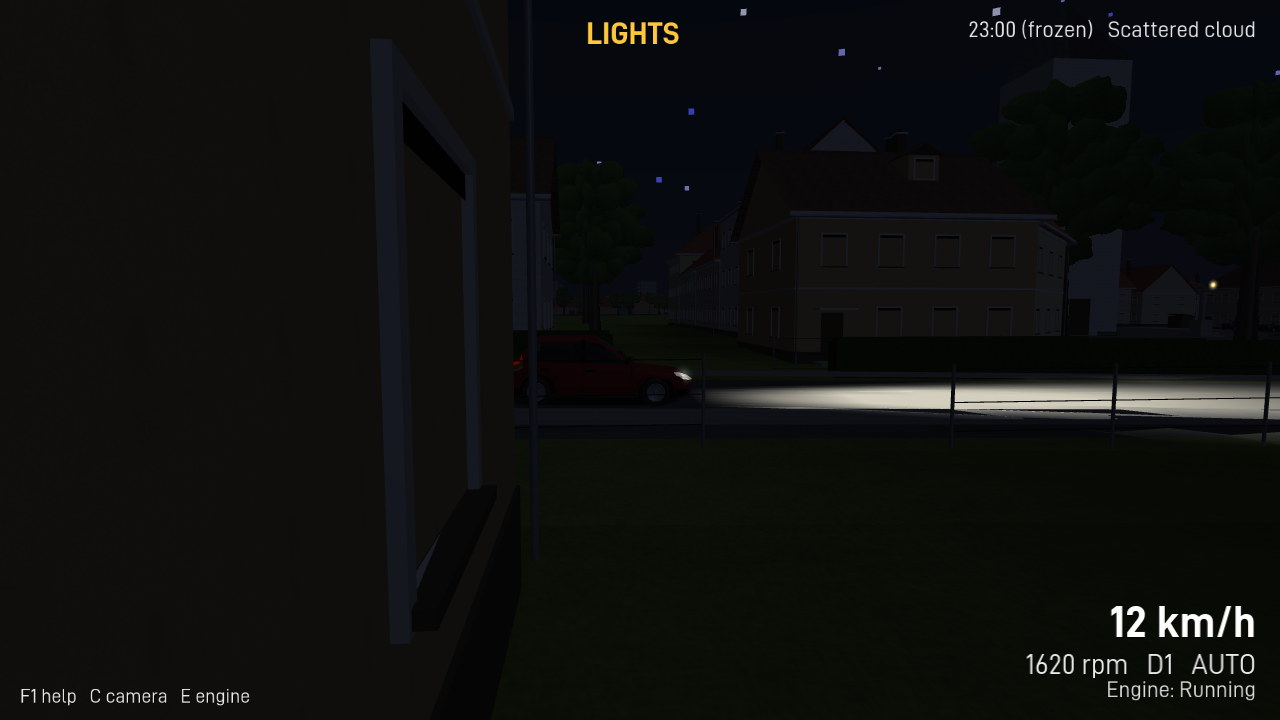
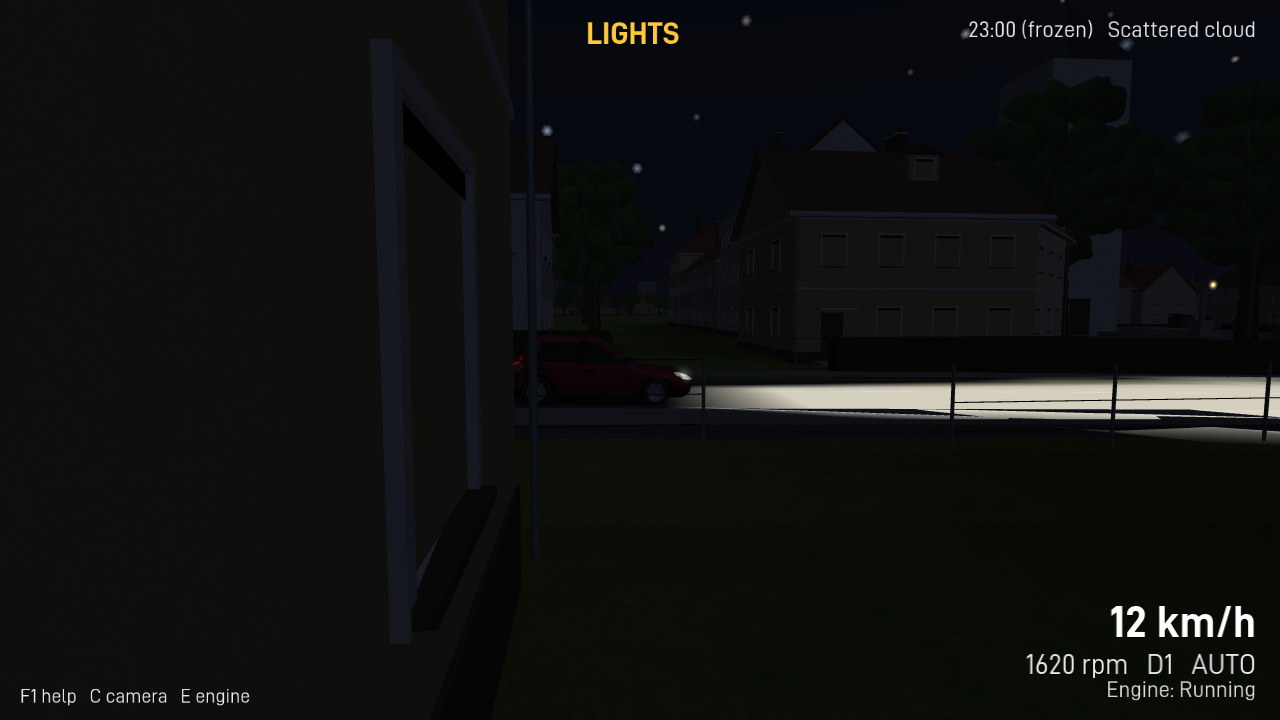
Re-shoot the curated screenshot set on the finished build
Nineteen frames, all of them captured after the visual work of this phase, so
the set is consistent with itself for the first time since the pass began: the
paint carries a highlight, the glass is tinted rather than grey, the wing
mirrors are convex, the A-pillar's saw-tooth join is gone, the headlamp beam
reaches down the road, the stars are points instead of blue squares and the
forest edges taper.

Two new scenes join it, because they are what two of this phase's changes are
judged on: wetroad (the sky reflected off wet asphalt, dark under the car and
bright towards the horizon) and rainynight (headlamps, rain and street lamps
together, the worst case for both).

capture_set.sh now converts the set to JPEG itself instead of printing a python
one-liner with a hand-maintained scene list for somebody to paste. That list had
already gone stale: a 1.2 MB hero.png was sitting in the repository next to
hero.jpg, referenced by nothing. It is removed.

plan.md gains the success-criteria table -- every point the brief asks for, what
was done about it, and how it is known -- and says plainly that the one
criterion this session could not meet is the one needing a real machine.

Changed region(s): [[0.5312, 0.5194, 1.0, 0.6111], [0.5625, 0.0, 0.5938, 0.0306]]

diff --git a/simulator/src/Traffic/RouteDriver.cpp b/simulator/src/Traffic/RouteDriver.cpp
@@ -156,25 +156,6 @@ namespace CarSim::Traffic
         }
     }
 
-    std::vector<Vector3> RouteDriver::Centreline(const float spacing) const
-    {
-        std::vector<Vector3> out;
-        if (samples_.empty()) {
-            return out;
-        }
-        float next = 0.0f;
-        for (const auto& sample : samples_) {
-            if (sample.s + 1e-3f >= next) {
-                out.push_back(sample.position);
-                next = sample.s + std::max(0.5f, spacing);
-            }
-        }
-        if (out.empty() || out.back().X != samples_.back().position.X || out.back().Z != samples_.back().position.Z) {
-            out.push_back(samples_.back().position);
-        }
-        return out;
-    }
-
     float RouteDriver::TargetSpeedAt(const float s) const
     {
         // Look ahead over a braking distance and take the lowest speed the road allows there, so

diff --git a/simulator/include/CarSim/Traffic/RouteDriver.hpp b/simulator/include/CarSim/Traffic/RouteDriver.hpp
@@ -62,9 +62,6 @@ namespace CarSim::Traffic
 
         [[nodiscard]] const RouteProgress& Progress() const { return progress_; }
         [[nodiscard]] const std::vector<Map::RouteStep>& Route() const { return route_; }
-        /// The centreline of the planned route, sampled every `spacing` metres. Used by the
-        /// map validation drive to report where a route runs.
-        [[nodiscard]] std::vector<Microsoft::Xna::Framework::Vector3> Centreline(float spacing = 5.0f) const;
 
     private:
         struct Sample

diff --git a/plan.md b/plan.md
@@ -1389,3 +1389,41 @@ Recorded so the next pass does not have to rediscover the reasoning.
 - **Baked shadow direction still does not follow the sun** (only its strength). Re-baking the
   terrain macro and the road vertex colours per hour is the only real fix and costs seconds per
   change of hour; it stays a documented limitation.
+### 26.5 Against the success criteria
+
+The brief for this phase ends with a description of what it should feel like to run the simulator
+afterwards. Taken point by point, with what was actually done and what is only claimed as far as
+it was measured. **Nothing here was verified on GPU hardware**: no such machine was available in
+this session, so every "feels" claim is bounded by what a deterministic measurement can say.
+
+| the brief asks that... | what was done | how it is known |
+| --- | --- | --- |
+| the car is pleasant and believable to drive | physics unchanged; the numbers it produces were measured and bounded | 100-0 km/h in 40.1 m dry (0.98 g, the same g at 50, 90 and 100), 56.0 m wet; 0-50 in 4.8 s dry, 6.3 s wet |
+| steering does not feel artificial | not changed; the autopilot holds every route within 0.5-1.9 m of the lane centre through town, country and a forest hairpin | `RouteDriver` tests |
+| clutch and manual driving work naturally | unchanged from Phase 11, still covered | clutch, stall, gear and drive tests |
+| automatic transmission behaves sensibly | unchanged, still covered | transmission and drive tests |
+| town driving feels coherent | junction surfaces, markings and signals fixed | see below |
+| traffic behaves predictably | two soaks: 30 minutes for overlaps and stuck cars, 10 minutes at the signals | no overlaps, no stuck cars, no red-light crossings, nothing spawned within 25 m |
+| signalised junctions look and behave correctly | two behaviour defects fixed (creeping into the box, commitment surviving a stop) and the marking corrected from give-way triangles to a stop line | soak test and marking test |
+| roads look properly integrated into the world | three causes of a lip between a junction and its roads fixed | worst ground-to-surface deviation over 52.4 km of lane and 148 connectors: 0.47 m -> **0.036 m** |
+| daytime looks good | paint, glass and mirrors now read as materials | before/after captures; `docs/materials.md` |
+| sunset looks good | the key light no longer flips 180 degrees at dusk; the refresh cadence follows the sun | nothing in the palette moves more than ~5/255 between applications, at any hour, in any weather |
+| night is genuinely driveable | the beam reaches 40 m with a plateau and a soft cut-off instead of a blob at seven metres | beam shape test; night captures |
+| headlights are useful | as above, plus the right-hand kick to the near verge | `HeadlampBeamFalloff` test |
+| dashboard is readable | audited at 13:00 and 21:30; backlight follows the ignition, every reading is live state | cluster captures |
+| rain visibly changes the scene | unchanged rain, plus the wet sheen below | rain captures |
+| wet roads look convincing | a grazing-angle sky sheen from a second additive road pass | road 60 m ahead (28,30,34) -> (55,58,63); road under the car unchanged |
+| wet grip is physically noticeable | validated rather than preserved | +40 % braking distance at every speed, cornering 105 -> 90 km/h |
+| the player car no longer looks like a prototype | paint highlight, glass sheen, convex wing mirrors | hero captures before and after |
+| the cockpit no longer looks like a debug interior | the A-pillar's saw-tooth join and the blank grey mirror card are gone | cockpit captures before and after |
+| towns have meaningful visual variation | **not changed this pass** -- 624 buildings already vary facade and roof colour per seed; flat facades at middle distance remain the biggest tell | recorded as open work in 26.4 and `handoff.md` |
+| forest and countryside feel deliberate | forest edges taper instead of ending in a wall | edge trees 0.65 scale against 1.00 inside; test |
+| performance is understood and measured | eight deterministic scenes, an overlay that splits both halves of the frame, before/after on the mirror, three tiers | `docs/performance.md` |
+| the project can be regenerated, built and tested reproducibly | one map pipeline with a drift test; six ctest registrations | `map_regeneration_check`, the audit in 26.6 |
+
+The one criterion not met is the one this session could not reach: **nobody drove it on a real
+machine**. No GPU was available here, so "pleasant to drive" rests on measurements -- braking in
+metres, lateral error in metres, camera jerk in millimetres, soak tests in simulated minutes --
+and on captured frames from a software rasteriser. `docs/real-hardware-validation.md` exists so
+that the person who does have the machine can settle it in half an hour, and its results table
+is empty and says so.

diff --git a/handoff.md b/handoff.md
@@ -185,6 +185,14 @@ What Phase 13 changed, in the order it matters:
   on green kept its commitment while queueing and then entered on red.
 - **The mirror costs a third less** (58.9 -> 45.5 ms) from a 300 m draw-distance cap, and three
   graphics tiers (`--quality`) trade draw distance, vegetation and mirror rate.
+- **The curated screenshot set is re-shot** at 19 frames (two new: `wetroad`, `rainynight`), and
+  `scripts/capture_set.sh` now converts them to JPEG itself instead of printing a command with a
+  scene list in it for somebody to paste -- which is how a stray `hero.png` ended up committed
+  next to `hero.jpg`.
+- **Renderer conformance re-measured** on all three renderers with `scripts/renderer_compare.sh`
+  and `scripts/renderer_sheet.py`, and `docs/renderer-conformance.md` now says per renderer which
+  of *configures / compiles / starts / renders / visually inspected / performance tested* was
+  actually done. None of the visual work introduced a renderer-specific divergence.
 
 Open / next ideas (nothing is blocking):
 

diff --git a/README.md b/README.md
@@ -33,6 +33,10 @@ town and the villages around it, the countryside and a forest, meet traffic, and
 | --- | --- | --- |
 | ![The village of Březí on the main road](docs/screenshots/brezi.jpg) | ![Podhájí on the southern ring](docs/screenshots/podhaji.jpg) | ![The small town of Nové Město](docs/screenshots/mesto.jpg) |
 
+| Wet road | Rainy night |
+| --- | --- |
+| ![The sky reflected off wet asphalt](docs/screenshots/wetroad.jpg) | ![Headlamps and rain after dark](docs/screenshots/rainynight.jpg) |
+
 All pictures are headless captures from the development container (Xvfb, Mesa llvmpipe
 software OpenGL ES 3, no multisampling); a GPU renders the same frames with sharper texture
 filtering. Older sets are kept in `docs/screenshots/m10-baseline/` (before Phase 11) and
